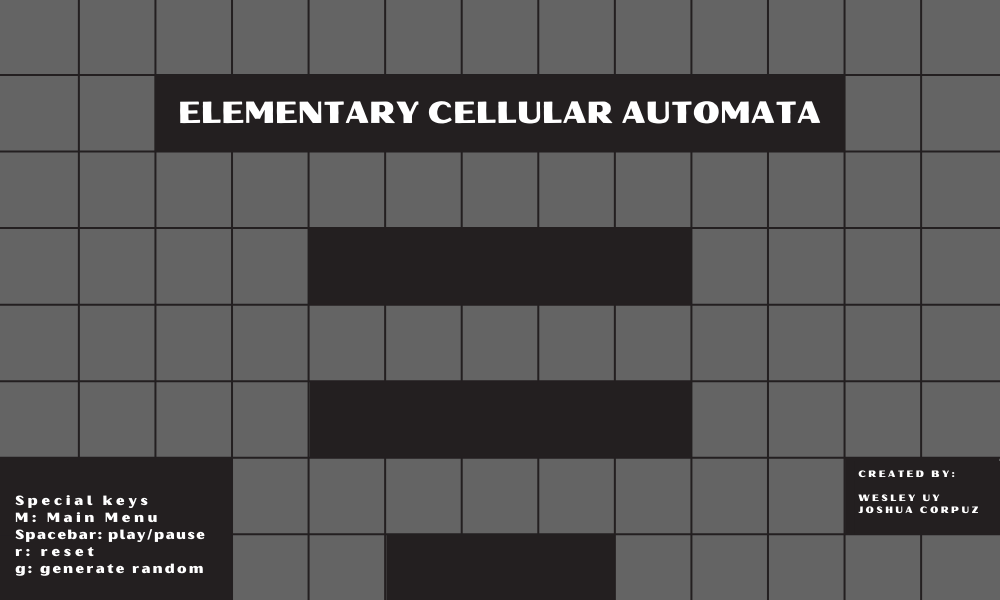
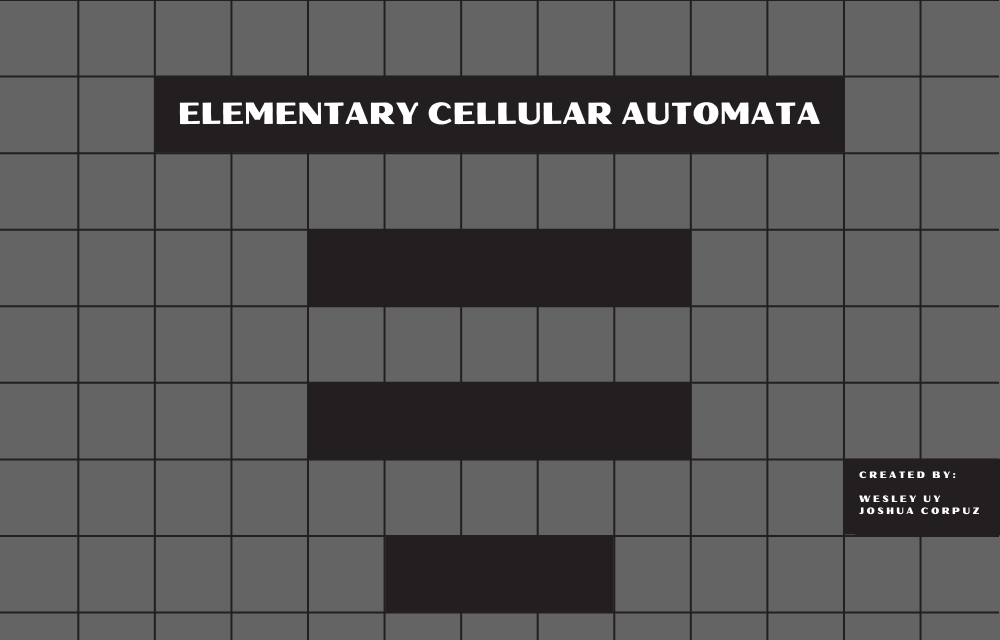
+ fix

diff --git a/Rules184.py b/Rules184.py
@@ -16,7 +16,7 @@ done_img = pygame.image.load("img/donebtn.png")
 play_btn = button.Button(310, 225, play_img, 1)
 rules_btn = button.Button(304, 378, rules_img, 1)
 quit_btn = button.Button(386, 535, quit_img, 1)
-done_btn = button.Button(536, 530, done_img, 0.86)
+done_btn = button.Button(536, 575, done_img, 0.86)
 
 Rule0 =  rulebutton.ruleButton(151, 109)
 Rule1 = rulebutton.ruleButton(456, 109)
@@ -32,6 +32,7 @@ GREY = (100, 100, 100)
 YELLOW = (0, 0, 255)
 WHITE = (200, 200, 200)
 
+font = pygame.font.SysFont("felixtitling", 20)
 
 # Tile size
 WIDTH, HEIGHT = 1000, 600
@@ -42,7 +43,7 @@ FPS = 120
 
 RULES = []
 
-screen = pygame.display.set_mode((WIDTH, HEIGHT))
+screen = pygame.display.set_mode((WIDTH, HEIGHT + 40))
 
 clock = pygame.time.Clock()
 
@@ -61,7 +62,7 @@ def drawGrid(positions):
           # write the tuple, unpacking the value
           pygame.draw.rect(screen, YELLOW, (*top_left, TILE_SIZE, TILE_SIZE))
 
-     for row in range(GRID_HEIGHT):
+     for row in range(GRID_HEIGHT + 1):
           pygame.draw.line(screen, WHITE, (0, row * TILE_SIZE),(WIDTH, row * TILE_SIZE))
 
      for col in range(GRID_WIDTH):
@@ -142,6 +143,7 @@ def main():
           clock.tick(FPS)
           
           if showMenu: 
+               pygame.display.set_caption("Elementary Cellular Automata")
                if not selectingRule: 
                     screen.blit(menu_img, (0, 0))
                     if play_btn.draw(screen):
@@ -171,6 +173,7 @@ def main():
                          update_rule ([1,0,0], Rule4)
                     if Rule5.draw(screen):
                          update_rule ([1,0,1], Rule5)
+                         print("5")
                     if Rule6.draw(screen):
                          update_rule ([1,1,0], Rule6)
                     if Rule7.draw(screen):
@@ -182,6 +185,9 @@ def main():
           else:
                screen.fill(GREY)
                drawGrid(positions)
+               _text = "m - menu     spacebar - play/pause     r - reset     g - generate random"
+               keyzz = font.render(_text, True, WHITE)
+               screen.blit(keyzz, (10, HEIGHT + 8))
 
                if playing:
                     count += 1

diff --git a/rulebutton.py b/rulebutton.py
@@ -13,6 +13,8 @@ class ruleButton():
 	def __init__(self, x, y):
 		self.image = pygame.transform.scale(nonselected_img, (int(notselected_width * 0.86), int(notselected_height * 0.86)))
 		self.rect = self.image.get_rect()
+		self.x = x
+		self.y = y
 		self.rect.topleft = (x, y)
 		self.clicked = False
 		self.selected = False
@@ -20,9 +22,11 @@ class ruleButton():
 
 	def toggleOn (self):
 		self.image = pygame.transform.scale(selected_img, (int(selected_width * 0.86), int(selected_height * 0.86)))
+		self.rect.topleft = (self.x + 2, self.y + 2)
 
 	def toggleOff (self):
 		self.image = pygame.transform.scale(nonselected_img, (int(notselected_width * 0.86), int(notselected_height * 0.86)))
+		self.rect.topleft = (self.x, self.y)
 
 
 	def draw(self, surface):
